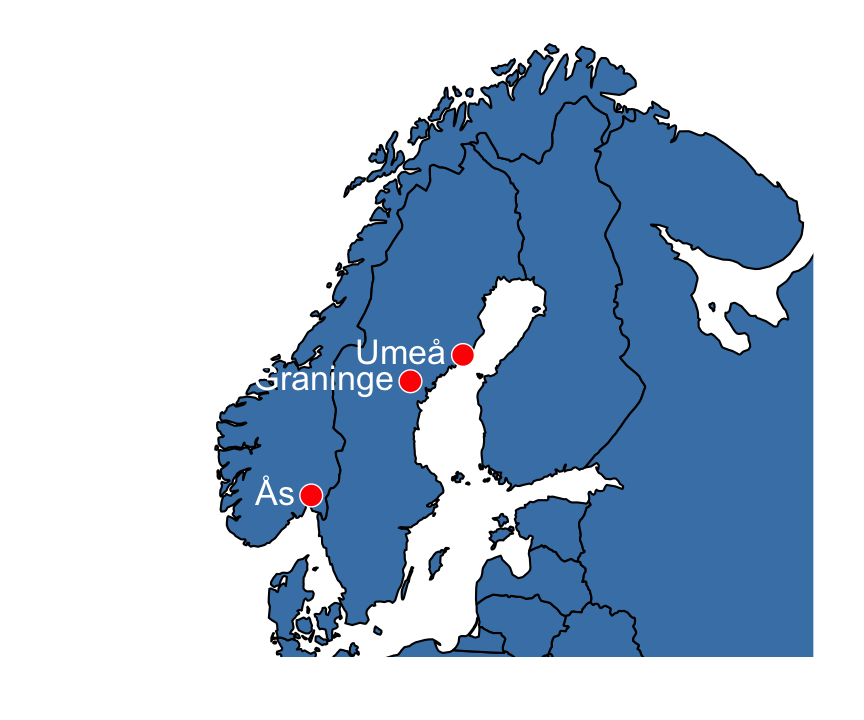
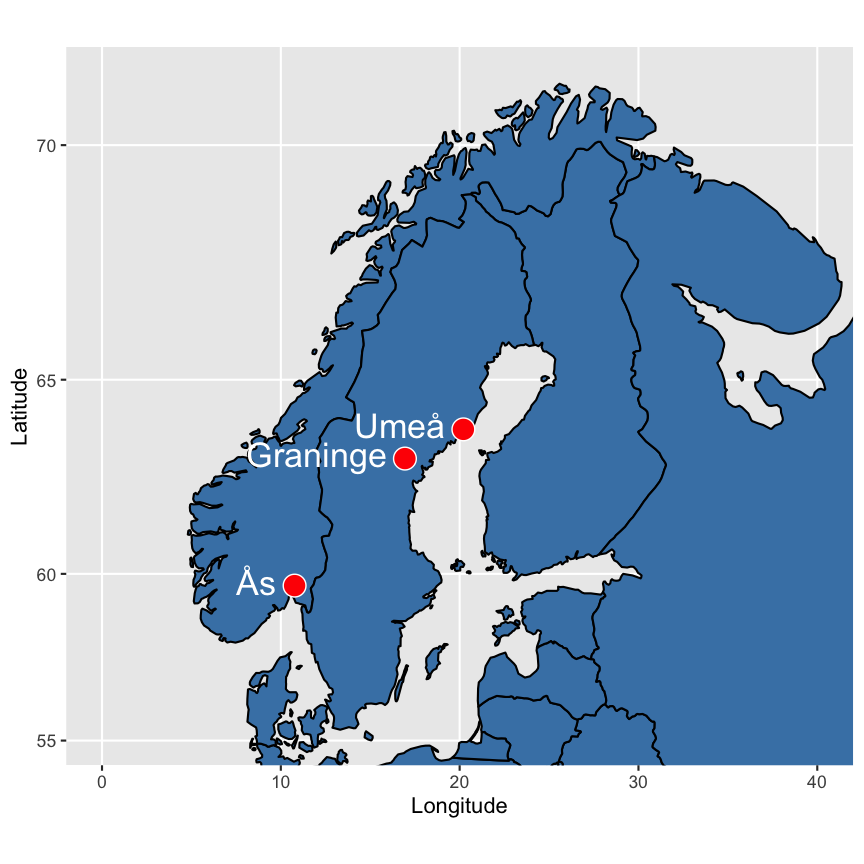
Personalised styling
This is still subject to change, but things are behaving quite nicely already now.

diff --git a/lectures/01_course_introduction.html b/lectures/01_course_introduction.html
@@ -7,12 +7,12 @@
     <meta name="date" content="2021-09-30" />
     <script src="libs/header-attrs-2.8/header-attrs.js"></script>
     <link href="libs/remark-css-0.0.1/default.css" rel="stylesheet" />
-    <link href="libs/remark-css-0.0.1/default-fonts.css" rel="stylesheet" />
     <link rel="stylesheet" href="css/niklas.css" type="text/css" />
+    <link rel="stylesheet" href="css/niklas-fonts.css" type="text/css" />
   </head>
   <body>
     <textarea id="source">
-class: left, middle, title-slide
+class: left, middle, inverse, title-slide
 
 # Practical skills for biology research II
 ## Course Introduction
@@ -42,7 +42,7 @@ class: left, middle, title-slide
 ]
 
 .pull-right[
-![](./figures/course_introduction_me_map-1.png)&lt;!-- --&gt;
+&lt;img src="./figures/course_introduction_me_map-1.png" width="432" /&gt;
 ]
 
 ---
@@ -172,13 +172,17 @@ ggplot(nordic_map, aes(x = long, y = lat)) +
   .smaller[&lt;br&gt;&lt;https://bookdown.org/yihui/rmarkdown/&gt;]
 - Advanced R
   .smaller[&lt;br&gt;&lt;https://adv-r.hadley.nz/&gt;]
+  
+All of these books are freely available online
 ]
 
 .pull-right.tile[
-![:scale 39%](https://d33wubrfki0l68.cloudfront.net/b88ef926a004b0fce72b2526b0b5c4413666a4cb/24a30/cover.png)
-![:scale 45%](https://r-graphics.org/cover.jpg)
-![:scale 42%](https://d33wubrfki0l68.cloudfront.net/565916198b0be51bf88b36f94b80c7ea67cafe7c/7f70b/cover.png)
-![:scale 45%](https://ggplot2-book.org/cover.jpg)
+![:scale 25%](https://d33wubrfki0l68.cloudfront.net/b88ef926a004b0fce72b2526b0b5c4413666a4cb/24a30/cover.png)
+![:scale 25%](https://r-graphics.org/cover.jpg)
+![:scale 25%](https://d33wubrfki0l68.cloudfront.net/565916198b0be51bf88b36f94b80c7ea67cafe7c/7f70b/cover.png)
+![:scale 25%](https://ggplot2-book.org/cover.jpg)
+![:scale 25%](https://bookdown.org/yihui/rmarkdown/images/cover.png)
+![:scale 25%](https://rstudio-education.github.io/hopr/cover.png)
 ]
 
 ---

diff --git a/lectures/css/niklas.css b/lectures/css/niklas.css
@@ -1,19 +1,51 @@
-/* Font size control */
-.small, .small .remark-code { font-size: 0.8em; }
-.smaller, .smaller .remark-code { font-size: 0.6em; }
+/* Title slide */
+.title-slide .remark-slide-number {
+  display: none;
+}
 
-/* Image tiling */
+.title-slide h2 {
+  border-bottom: 2px solid firebrick;
+  margin-bottom: 200px;
+}
+
+.title-slide h3 {
+  margin-bottom: 0;
+  margin-top: 0;
+  text-align: right;
+}
+
+/* Slide title style */
+.remark-slide-content:not(.title-slide) h1:first-child {
+  color: ivory;
+  background-color: #1D1E19;
+  margin: -0.6em -2.2em 0.7em -2.2em;
+  padding: 0.5em 0 0.5em 2em;
+}
+
+.inverse.remark-slide-content:not(.title-slide) h1:first-child {
+  color: #1D1E19;
+  background-color: #FFFFFF;
+}
+
+/* Font size control */
+.remark-slide-content { font-size: 20px; } /* Base font size */
+.smaller, .smaller .remark-code { font-size: 0.75em; }
+.small, .small .remark-code { font-size: 0.85em; }
+.big, .big .remark-code {font-size: 1.15em; }
+.huge, .huge .remark-code {font-size: 1.25em; }
+
+.remark-slide-content h1 {font-size: 2em;}
+.remark-slide-content h2 {font-size: 1.35em;}
+.remark-slide-content h3 {font-size: 1.15em;}
+.remark-slide-content h4 {font-size: 1em;}
+
+/* Source code width */
+.remark-code {
+  max-width: 80ch;
+}
+
+/* Element tiling */
 .tile {
   display: flex;
   flex-wrap: wrap;
-}
-
-.overlay-container {
-  position: relative;
-}
-
-.overlay {
-  position: absolute;
-  top: 0;
-  left: 0;
 }

diff --git a/lectures/02_introduction_to_r.html b/lectures/02_introduction_to_r.html
@@ -7,12 +7,12 @@
     <meta name="date" content="2021-09-30" />
     <script src="libs/header-attrs-2.8/header-attrs.js"></script>
     <link href="libs/remark-css-0.0.1/default.css" rel="stylesheet" />
-    <link href="libs/remark-css-0.0.1/default-fonts.css" rel="stylesheet" />
     <link rel="stylesheet" href="css/niklas.css" type="text/css" />
+    <link rel="stylesheet" href="css/niklas-fonts.css" type="text/css" />
   </head>
   <body>
     <textarea id="source">
-class: left, middle, title-slide
+class: left, middle, inverse, title-slide
 
 # Practical Skills for Biology Research II
 ## Introduction to R

diff --git a/lectures/03_rstudio.html b/lectures/03_rstudio.html
@@ -7,12 +7,12 @@
     <meta name="date" content="2021-09-30" />
     <script src="libs/header-attrs-2.8/header-attrs.js"></script>
     <link href="libs/remark-css-0.0.1/default.css" rel="stylesheet" />
-    <link href="libs/remark-css-0.0.1/default-fonts.css" rel="stylesheet" />
     <link rel="stylesheet" href="css/niklas.css" type="text/css" />
+    <link rel="stylesheet" href="css/niklas-fonts.css" type="text/css" />
   </head>
   <body>
     <textarea id="source">
-class: left, middle, title-slide
+class: left, middle, inverse, title-slide
 
 # Practical skills for biology research II
 ## RStudio

diff --git a/lectures/css/niklas-fonts.css b/lectures/css/niklas-fonts.css
@@ -1,0 +1,15 @@
+@import url(https://fonts.googleapis.com/css?family=Source+Code+Pro:400,700);
+@import url('https://fonts.googleapis.com/css2?family=Open+Sans:ital,wght@0,400;0,700;1,400&family=Roboto:ital,wght@0,400;0,700;1,400&display=swap');
+
+body {
+  font-family: 'Roboto', sans-serif;
+}
+
+h1, h2, h3 {
+  font-family: 'Open Sans', sans-serif;
+  font-weight: normal;
+}
+
+.remark-code, .remark-inline-code {
+  font-family: 'Source Code Pro', monospace;
+}
